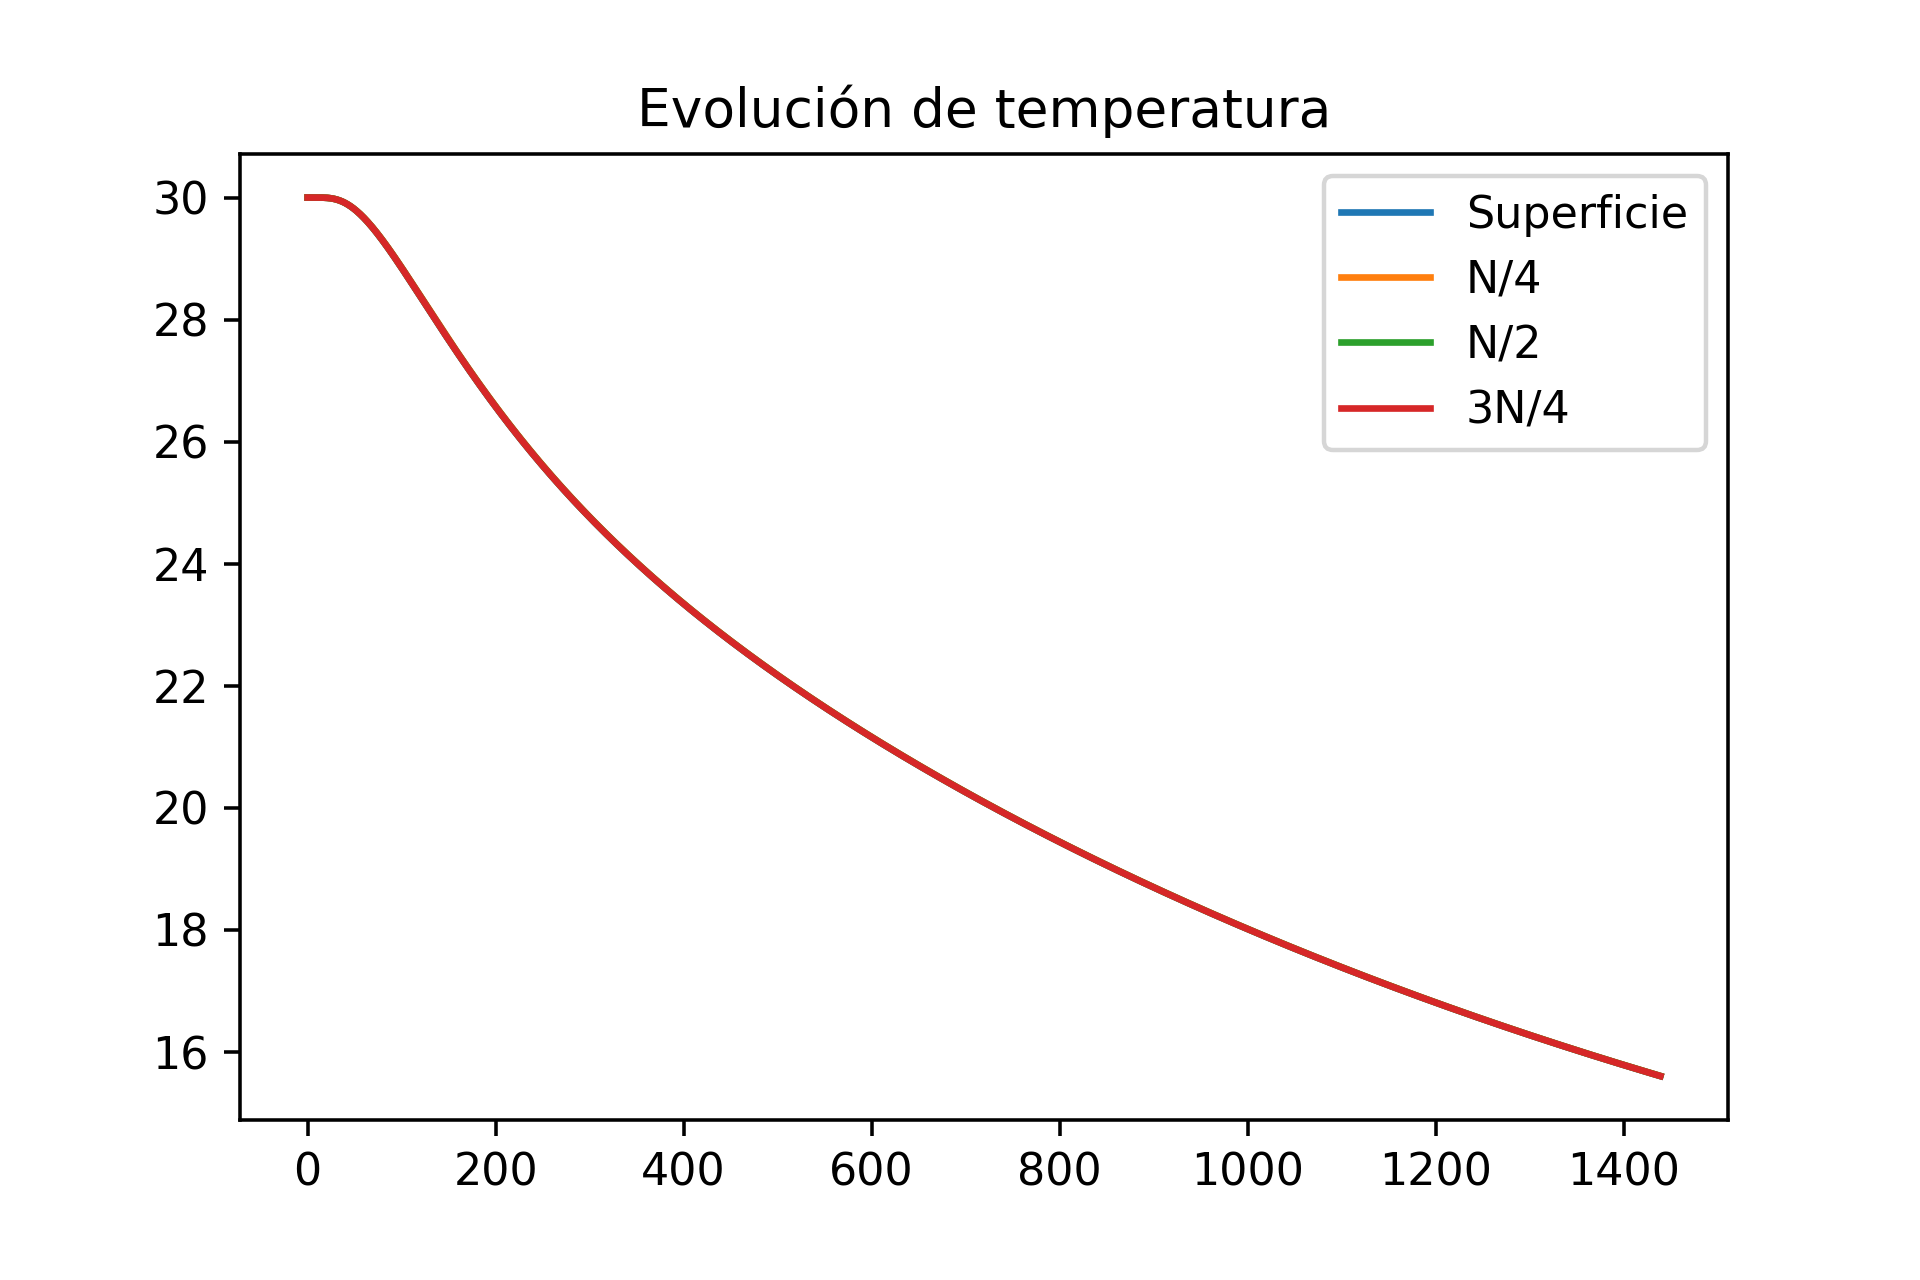
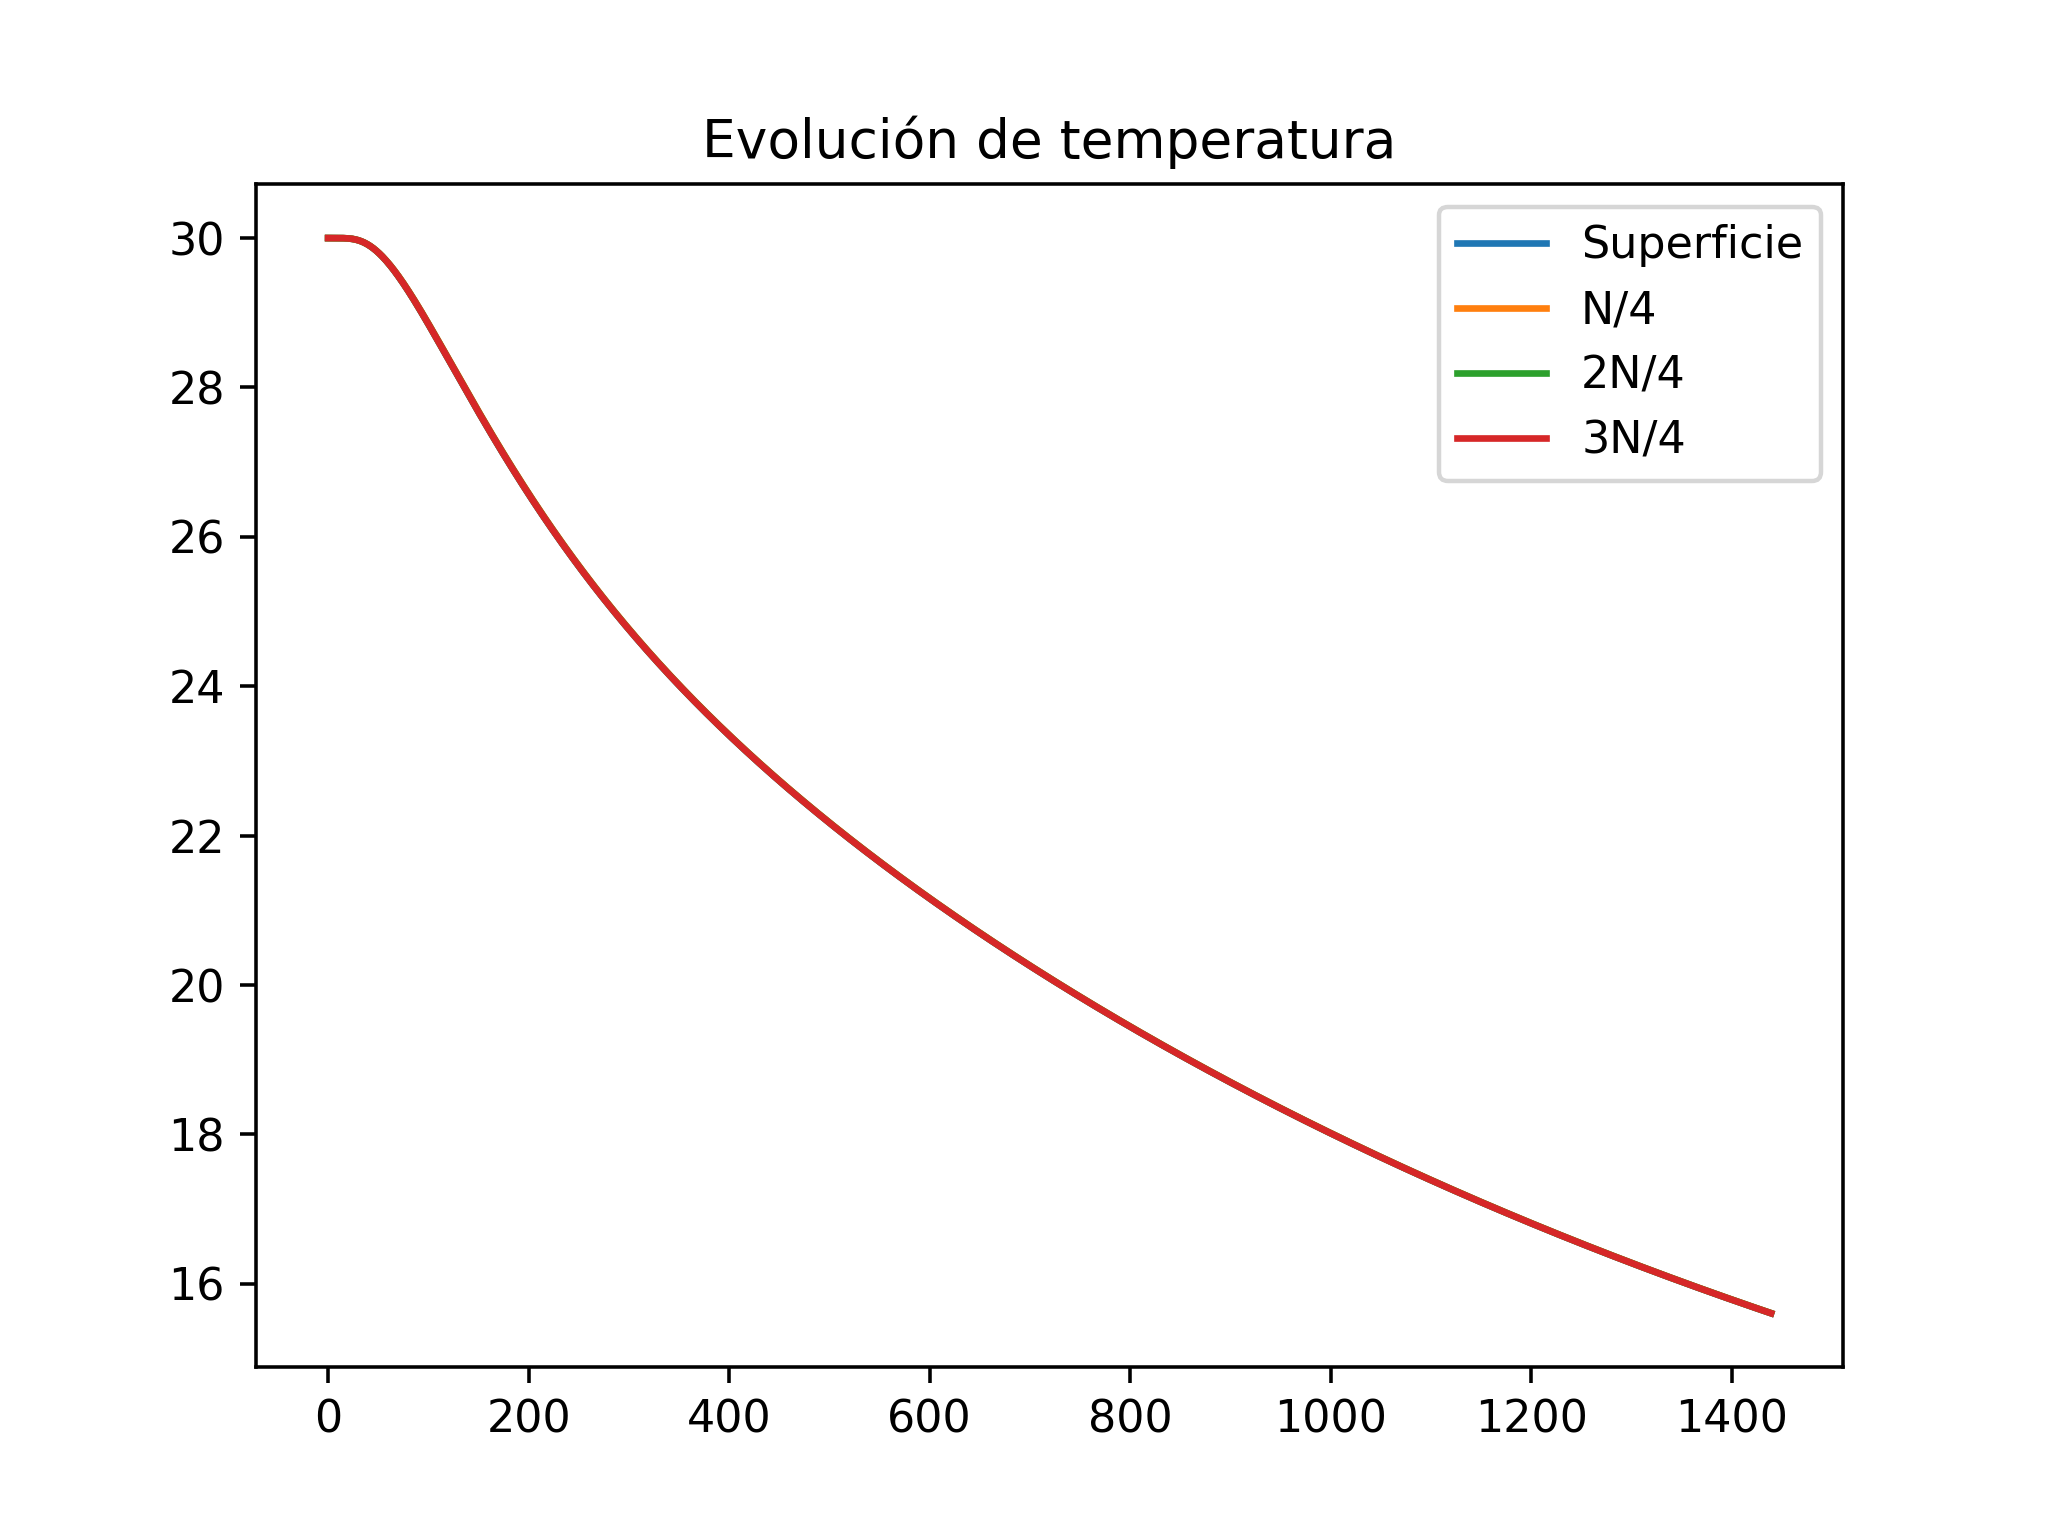
caso6

diff --git a/Entrega_5/caso_6.py b/Entrega_5/caso_6.py
@@ -155,7 +155,7 @@ for k in range(int32(Days/dt)):
 figure(2)
 plot(range(int32(Days / dt)), u_0, label='Superficie')
 plot(range(int32(Days / dt)), u_N4, label='N/4')
-plot(range(int32(Days / dt)), u_2N4, label='N/2')
+plot(range(int32(Days / dt)), u_2N4, label='2N/4')
 plot(range(int32(Days / dt)), u_3N4, label='3N/4')
 title("Evolución de temperatura")
 legend()
